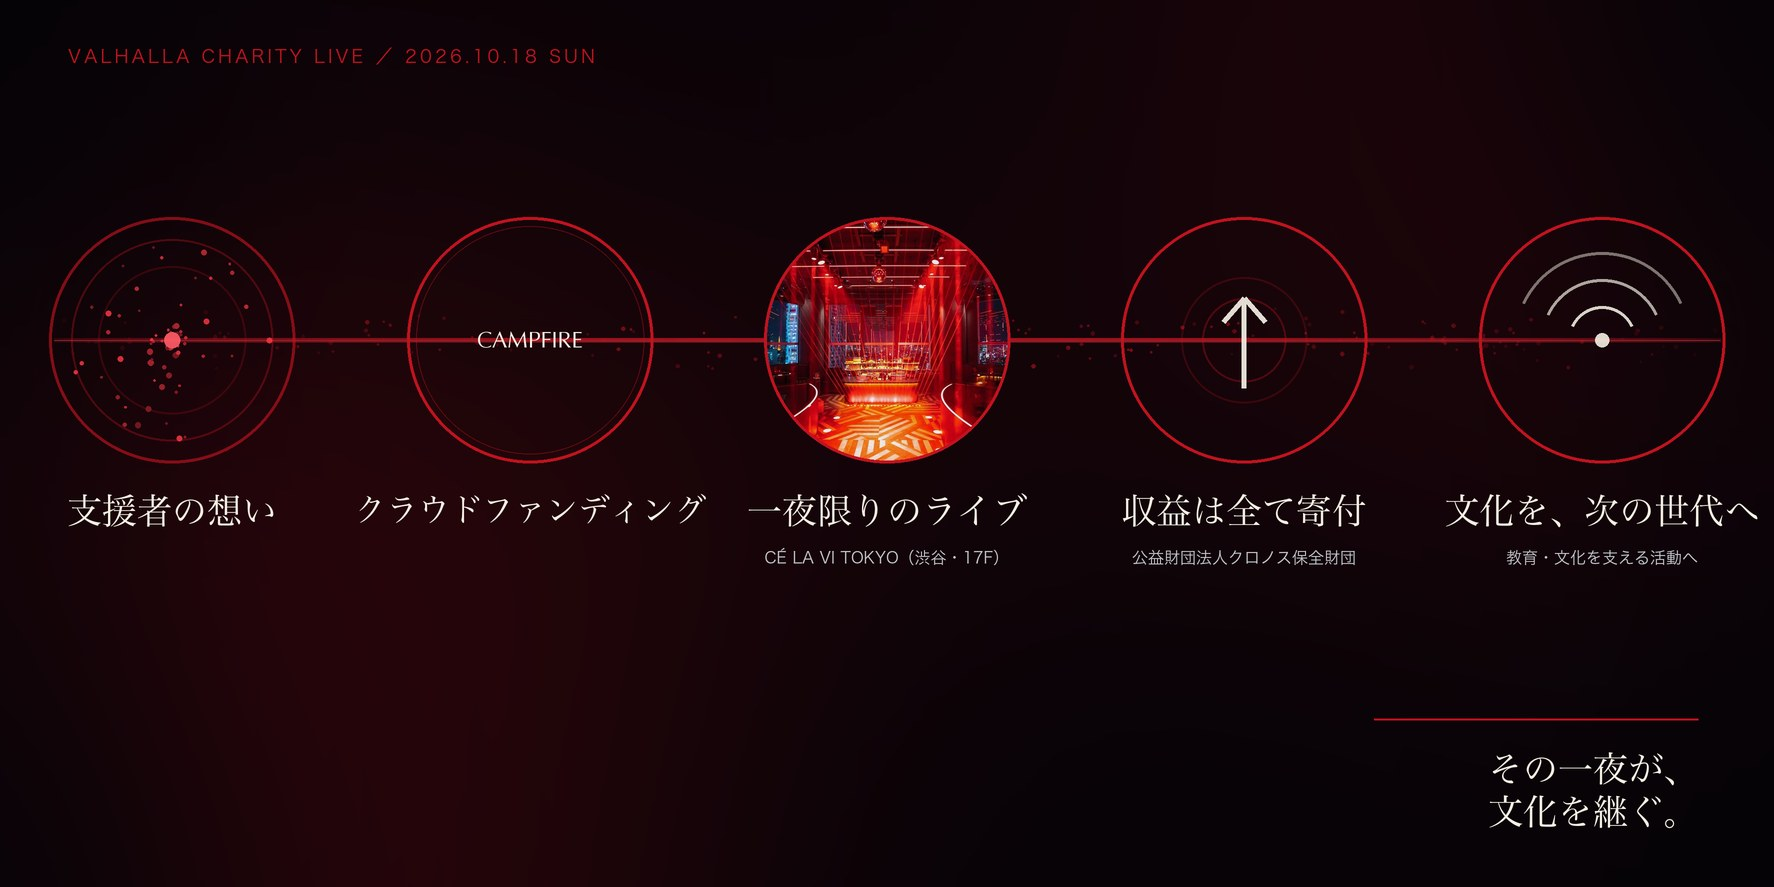
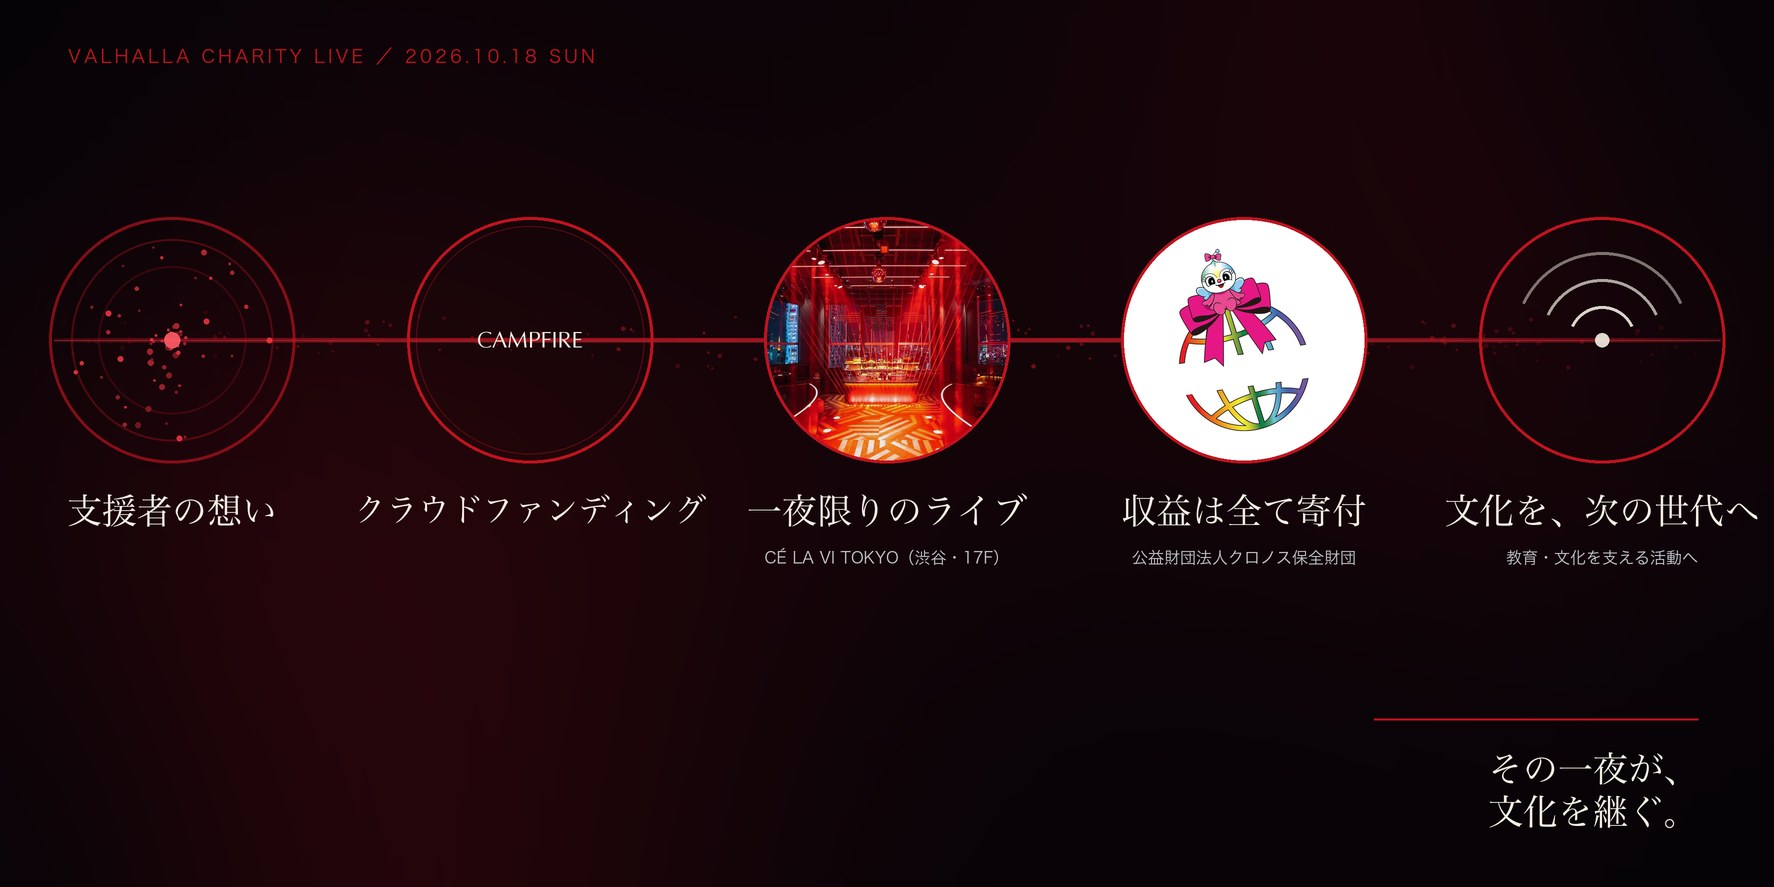
charity: put the foundation mark into the donation node
公益財団法人クロノス保全財団のマーク(通称ハグちゃん)を取り込み、
flow_banner のノード4「収益は全て寄付」に配置。

白背景を抜くと地球内側の余白まで穴が空くうえ、公式マークの加工は
避けるべきなので、ロゴは無加工のまま白い円チップに載せる方式にした。
円の直径・輪郭線は他ノードと統一。

Changed region(s): [[0.6201, 0.2435, 0.7751, 0.5175]]

diff --git a/assets/charity/create_flow_banner.py b/assets/charity/create_flow_banner.py
@@ -15,6 +15,7 @@ from PIL import Image, ImageDraw, ImageEnhance, ImageFilter, ImageFont, ImageOps
 
 HERE = Path(__file__).resolve().parent
 CELAVI = HERE / "venue" / "celavi_red.jpg"
+HUG_LOGO = HERE / "logo_hug.png"
 OUTPUT = HERE / "flow_banner.jpg"
 
 W, H = 1774, 887
@@ -230,18 +231,23 @@ def add_nodes(base: Image.Image) -> None:
     od = ImageDraw.Draw(outlines)
     ring(od, (centers_x[2], cy), diameter, 3)
 
-    # 4: donation symbol — an upward arrow travelling through three rings.
-    ring(od, (centers_x[3], cy), diameter)
-    for rr, alpha in ((63, 55), (42, 85)):
-        od.ellipse(sbox((centers_x[3] - rr, cy - rr, centers_x[3] + rr, cy + rr)),
-                   outline=(*CRIMSON, alpha), width=2 * SCALE)
-    ax = centers_x[3]
-    od.line((ax * SCALE, (cy + 48) * SCALE, ax * SCALE, (cy - 42) * SCALE),
-            fill=(*CREAM, 235), width=5 * SCALE)
-    od.line((ax * SCALE, (cy - 42) * SCALE, (ax - 21) * SCALE, (cy - 18) * SCALE),
-            fill=(*CREAM, 235), width=5 * SCALE)
-    od.line((ax * SCALE, (cy - 42) * SCALE, (ax + 21) * SCALE, (cy - 18) * SCALE),
-            fill=(*CREAM, 235), width=5 * SCALE)
+    # 4: the foundation's official logo, unaltered except for proportional scaling.
+    logo_center = (centers_x[3], cy)
+    circle_size = diameter * SCALE
+    circle_x = round((logo_center[0] - diameter / 2) * SCALE)
+    circle_y = round((logo_center[1] - diameter / 2) * SCALE)
+    white_circle = Image.new("RGBA", (circle_size, circle_size), (255, 255, 255, 255))
+    circle_mask = Image.new("L", (circle_size, circle_size), 0)
+    ImageDraw.Draw(circle_mask).ellipse((2, 2, circle_size - 3, circle_size - 3), fill=255)
+    base.paste(white_circle, (circle_x, circle_y), circle_mask)
+
+    logo_box = round(diameter * 0.74 * SCALE)
+    logo = Image.open(HUG_LOGO).convert("RGB")
+    logo.thumbnail((logo_box, logo_box), Image.Resampling.LANCZOS)
+    logo_x = round(logo_center[0] * SCALE - logo.width / 2)
+    logo_y = round(logo_center[1] * SCALE - logo.height / 2)
+    base.paste(logo, (logo_x, logo_y))
+    ring(od, logo_center, diameter)
 
     # 5: culture passing onward — fine arcs expanding toward the next generation.
     cx = centers_x[4]
@@ -296,8 +302,8 @@ def add_typography(base: Image.Image) -> None:
 
 
 def main() -> None:
-    if not CELAVI.exists():
-        raise FileNotFoundError("Required venue photographs are missing")
+    if not CELAVI.exists() or not HUG_LOGO.exists():
+        raise FileNotFoundError("Required image assets are missing")
 
     canvas = make_background()
     add_light_ribbon(canvas, y=340, start=54, end=1720)
